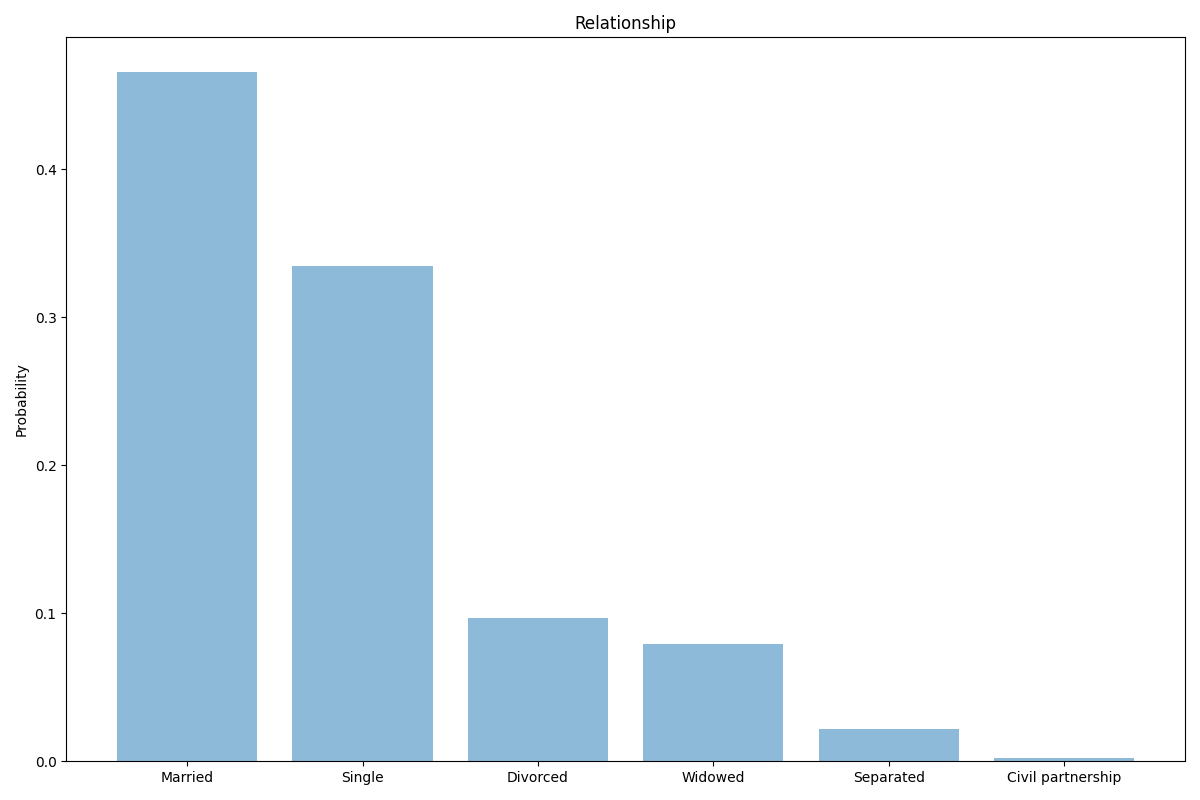
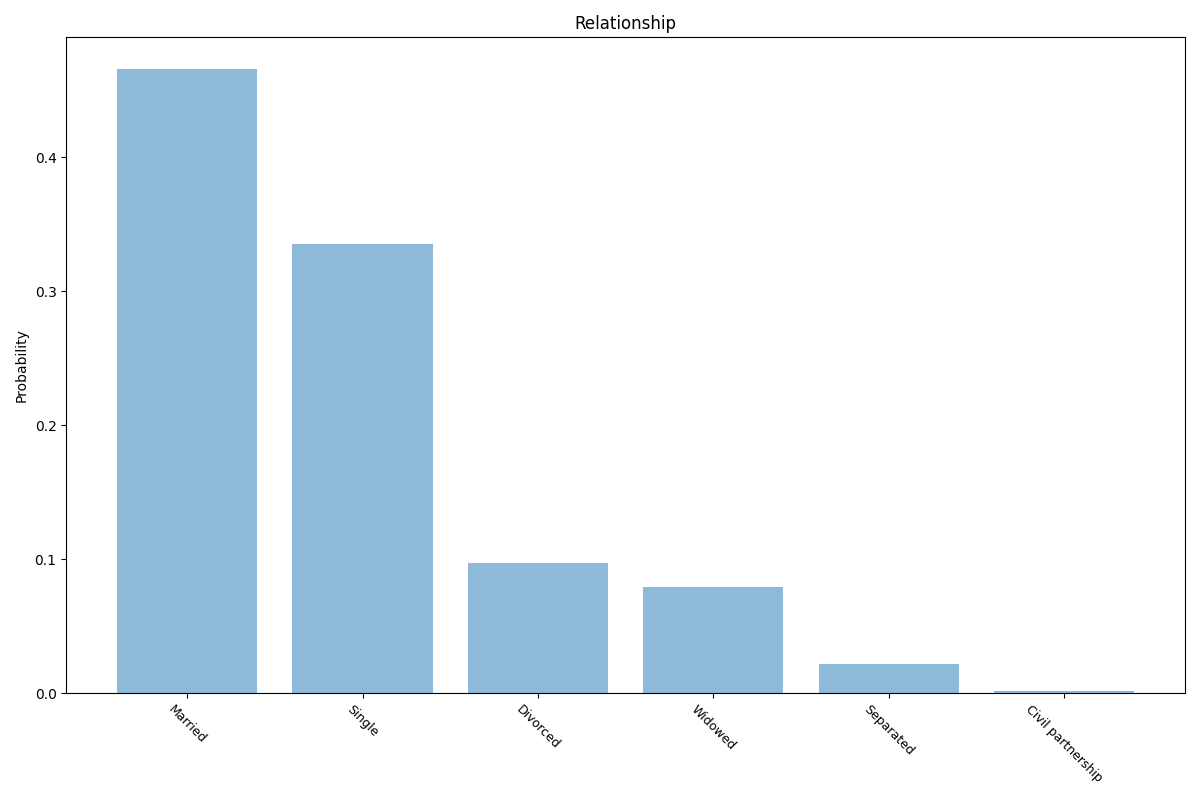
Generate composite readme

diff --git a/src/scripts/gen_readme.py b/src/scripts/gen_readme.py
@@ -16,6 +16,35 @@ def flatten_dict(d: dict, parent_key: str = '', sep: str =', ') -> dict:
     return dict(items)
     
 
+def gen_composite_graph(path: str, data: dict) -> list[dict]:
+    _, location = os.path.split(path)
+     
+    # Build bars data
+    labels = list(data.keys())
+    x = list(range(len(labels)))
+    y = list(data.values())
+    
+    # Create plot
+    fig = plt.figure(figsize=(12, 8))
+    plt.bar(x, y, align='center', alpha=0.5)
+    plt.xticks(x, labels, rotation=-45, fontsize=9)
+    plt.ylabel('Probability')
+    plt.title(location.title())
+    plt.tight_layout()
+
+    # Create dir for images if not exist
+    img_dir = os.path.join(path, 'img')
+    if not os.path.exists(img_dir):
+        os.makedirs(img_dir)
+        
+    img_path = os.path.join(img_dir, location)
+    print(img_path + '.png')
+    
+    plt.savefig(img_path)
+    plt.close(fig)
+    
+
+
 def gen_graphs(path: str, data: dict) -> list[dict]:
     graphs = []
     for feature, value in data.items():
@@ -31,7 +60,7 @@ def gen_graphs(path: str, data: dict) -> list[dict]:
         # Create plot
         fig = plt.figure(figsize=(12, 8))
         plt.bar(x, y, align='center', alpha=0.5)
-        plt.xticks(x, labels)
+        plt.xticks(x, labels, rotation=-45, fontsize=9)
         plt.ylabel('Probability')
         plt.title(feature.title())
         plt.tight_layout()
@@ -50,6 +79,15 @@ def gen_graphs(path: str, data: dict) -> list[dict]:
         graphs.append(feature)
     
     return graphs
+
+
+def build_composite_readme_content(path: str, filename: str, data: dict) -> str:
+    _, location = os.path.split(path)
+    
+    title = location.replace('_', ' ').title()
+    gen_composite_graph(path, data)  
+    content = f'# {title}\n\n![{title}](img/{location}.png)'
+    return content
 
 
 def build_readme_content(path: str, filename: str, data: dict, sources: str) -> str:
@@ -80,8 +118,12 @@ def gen_data_readme(path: str, target_file: str):
             data = json.load(f)
 
         readme_file_path = os.path.join(path, 'README.md')
-        sources = get_sources(readme_file_path)
-        readme = build_readme_content(path, target_file, data, sources)
+        
+        if target_file == 'composite.json':
+            readme = build_composite_readme_content(path, target_file, data)
+        else:
+            sources = get_sources(readme_file_path)
+            readme = build_readme_content(path, target_file, data, sources)
 
         with open(readme_file_path, 'w') as f:
             f.write(readme)
@@ -91,10 +133,12 @@ def gen_data_readme(path: str, target_file: str):
 
 def gen_data_readmes() -> list[str]:
     for _dir in os.walk('data'):
+        path = _dir[0]
         files = _dir[2]
         for f in files:
             if f.endswith('.json'):
-                gen_data_readme(_dir[0], f)
+                gen_data_readme(path, f)
+                break
 
 
 if __name__ == '__main__':

diff --git a/src/lib/generate.py b/src/lib/generate.py
@@ -5,18 +5,6 @@ from typing import Union
 import numpy as np
 
 
-# def is_composition(target: str) -> bool:
-#     composition = False
-#     target = target.lower().replace(' ', '_')
-#     for _dir in os.walk('data'):
-#         _, final_dir = os.path.split(_dir[0])
-#         if final_dir == target:
-#             composition = 'composite.json' in _dir[2]
-#             break
-
-#     return composition
-
-
 def probabilities_from_dict(d: dict[str, float]) -> np.array:
     probabilities = np.array(list(d.values()), dtype=np.float64)
     if probabilities.sum() == 0.0:

diff --git a/data/united_kingdom/README.md b/data/united_kingdom/README.md
@@ -1,7 +1,3 @@
-# Composite
+# United Kingdom
 
-## Sources
-
-Population data from 2020 ONS Census data "Population estimates for the UK, England and Wales, Scotland and Northern Ireland: mid-2020".
-
-https://www.ons.gov.uk/peoplepopulationandcommunity/populationandmigration/populationestimates/bulletins/annualmidyearpopulationestimates/latest
+![United Kingdom](img/united_kingdom.png)
